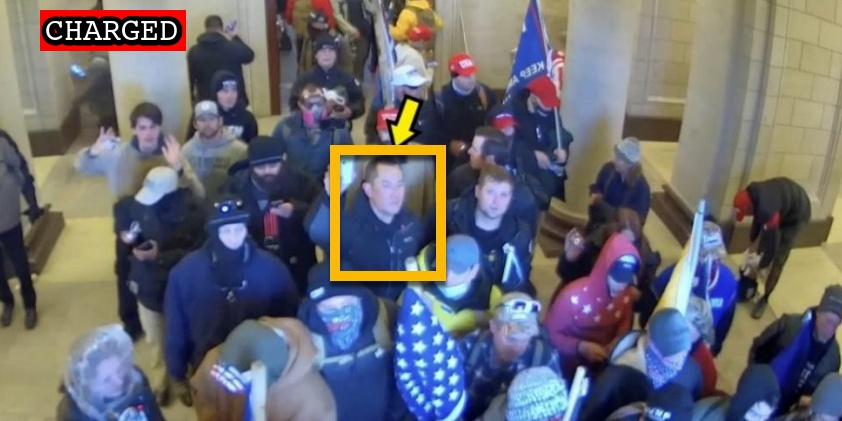
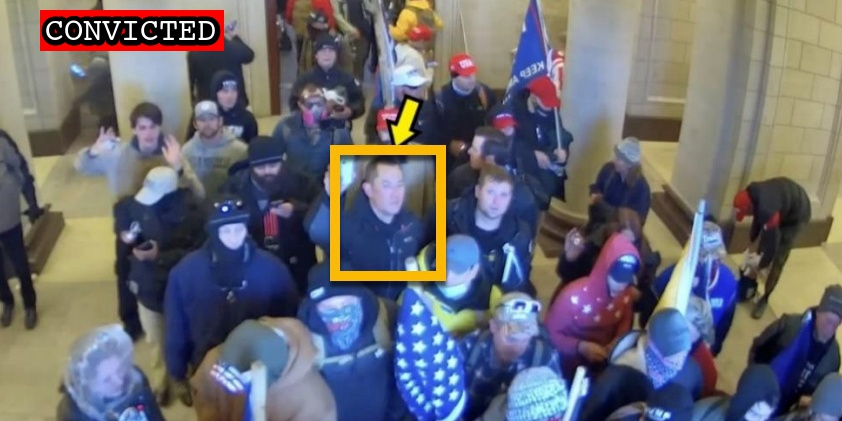
Latest import

Changed region(s): [[0.0618, 0.0, 0.2779, 0.1235]]

diff --git a/docs/_suspects/robert-sanford.md b/docs/_suspects/robert-sanford.md
@@ -37,13 +37,12 @@ published: true
 caseNumber: 1:21-cr-86
 videos:
 charges:
-  - code: 18 USC § 111(a)(1) and (b)
-    title: Assaulting, Resisting, or Impeding Certain Officers Using a Dangerous Weapon
-    url: https://www.law.cornell.edu/uscode/text/18/111
-    felony: true
+- code: 18 USC § 111(a)(1) and (b)
+  title: Assaulting, Resisting, or Impeding Certain Officers Using a Dangerous Weapon
+  url: https://www.law.cornell.edu/uscode/text/18/111
+  felony: true
 sentence:
 ---
-
 - [News Report](https://www.wsj.com/livecoverage/trump-impeachment-house-biden/card/jjabJi3k3h0KAkxYDoWY)
 - [DOJ Press Release](https://www.justice.gov/usao-dc/pr/retired-pennsylvania-fire-fighter-arrested-and-criminally-charged-actions-us-capitol)
 - [Video of Incident](https://twitter.com/DavidBegnaud/status/1349055784089370624?s=20)
@@ -51,3 +50,5 @@ sentence:
 - [Statement of Facts](https://www.justice.gov/opa/page/file/1353926/download)
 - [Indictment](https://www.justice.gov/usao-dc/case-multi-defendant/file/1460086/download)
 - [DOJ Press Release (Plea Agreement)](https://www.justice.gov/usao-dc/pr/pennsylvania-man-pleads-guilty-assaulting-officers-dangerous-weapon-during-jan-6-capitol)
+- [Plea Agreement](https://www.justice.gov/usao-dc/case-multi-defendant/file/1537791/download)
+- [Statement of Offense](https://www.justice.gov/usao-dc/case-multi-defendant/file/1537796/download)

diff --git a/docs/_suspects/paula-conlon.md b/docs/_suspects/paula-conlon.md
@@ -4,23 +4,24 @@ lastName: Conlon
 hashtag:
 aka:
 residence: Maryland
-status: Charged
+status: Convicted
 date: 2022-05-18
 charged: 2022-05-18
 indicted:
-convicted:
+convicted: 2022-09-23
 acquitted:
 sentenced:
 dismissed:
 deceased:
 plea_hearing: 2022-09-23
 trial_date:
+trial_type:
 sentencing: 2023-01-05
 age:
 occupation:
 affiliations:
 jurisdiction: Federal
-image: /images/preview/charged.jpg
+image: /images/preview/convicted.jpg
 suspect: charged.jpg
 booking:
 courtroom:
@@ -36,9 +37,15 @@ published: true
 caseNumber: 1:22-cr-171
 videos:
 charges:
+  - code: 40 USC § 5104(e)(2)(G)
+    title: Parading, demonstrating or picketing in a Capitol building
+    url: https://www.law.cornell.edu/uscode/text/40/5104
+    felony: false
 sentence:
 ---
 
 - [Information](https://www.justice.gov/usao-dc/case-multi-defendant/file/1508911/download)
 - [Complaint](https://www.justice.gov/usao-dc/case-multi-defendant/file/1509901/download)
 - [Statement of Facts](https://www.justice.gov/usao-dc/case-multi-defendant/file/1509906/download)
+- [Plea Agreement](https://www.justice.gov/usao-dc/case-multi-defendant/file/1537836/download)
+- [Statement of Offense](https://www.justice.gov/usao-dc/case-multi-defendant/file/1537841/download)

diff --git a/docs/_suspects/stacy-bond.md b/docs/_suspects/stacy-bond.md
@@ -4,23 +4,24 @@ lastName: Bond
 hashtag:
 aka:
 residence: Maryland
-status: Charged
+status: Convicted
 date: 2022-05-18
 charged: 2022-05-18
 indicted:
-convicted:
+convicted: 2022-09-23
 acquitted:
 sentenced:
 dismissed:
 deceased:
 plea_hearing: 2022-09-23
 trial_date:
+trial_type:
 sentencing: 2023-01-05
 age:
 occupation:
 affiliations:
 jurisdiction: Federal
-image: /images/preview/charged.jpg
+image: /images/preview/convicted.jpg
 suspect: charged.jpg
 booking:
 courtroom:
@@ -36,9 +37,15 @@ published: true
 caseNumber: 1:22-cr-171
 videos:
 charges:
+  - code: 40 USC § 5104(e)(2)(G)
+    title: Parading, demonstrating or picketing in a Capitol building
+    url: https://www.law.cornell.edu/uscode/text/40/5104
+    felony: false
 sentence:
 ---
 
 - [Information](https://www.justice.gov/usao-dc/case-multi-defendant/file/1508906/download)
 - [Complaint](https://www.justice.gov/usao-dc/case-multi-defendant/file/1509891/download)
 - [Statement of Facts](https://www.justice.gov/usao-dc/case-multi-defendant/file/1509896/download)
+- [Plea Agreement](https://www.justice.gov/usao-dc/case-multi-defendant/file/1537826/download)
+- [Statement of Offense](https://www.justice.gov/usao-dc/case-multi-defendant/file/1537831/download)

diff --git a/docs/_suspects/david-johnston.md b/docs/_suspects/david-johnston.md
@@ -34,7 +34,7 @@ description: Click for latest case details. Suspects innocent until proven guilt
 author: seditiontrack
 layout: suspect
 published: true
-caseNumber: 1:22-mj-109
+caseNumber: 1:22-cr-182
 videos:
 charges:
 - code: 40 USC § 5104(e)(2)(G)
@@ -46,6 +46,6 @@ sentence:
 - [News Report](https://www.heraldonline.com/news/local/crime/article261637562.html)
 - [Complaint](https://www.justice.gov/usao-dc/case-multi-defendant/file/1507411/download)
 - [Statement of Facts](https://www.justice.gov/usao-dc/case-multi-defendant/file/1507416/download)
-- [Information](https://extremism.gwu.edu/sites/g/files/zaxdzs2191/f/Chad%20Clifton%20and%20David%20Johnston%20Information.pdf)
-- [Plea Agreement](https://storage.courtlistener.com/recap/gov.uscourts.dcd.243639/gov.uscourts.dcd.243639.25.0.pdf)
-- [Statement of Offense](https://storage.courtlistener.com/recap/gov.uscourts.dcd.243639/gov.uscourts.dcd.243639.26.0_1.pdf)
+- [Information](https://www.justice.gov/usao-dc/case-multi-defendant/file/1537811/download)
+- [Plea Agreement](https://www.justice.gov/usao-dc/case-multi-defendant/file/1537816/download)
+- [Statement of Offense](https://www.justice.gov/usao-dc/case-multi-defendant/file/1537821/download)

diff --git a/docs/_suspects/levi-gable.md b/docs/_suspects/levi-gable.md
@@ -4,17 +4,18 @@ lastName: Gable
 hashtag:
 aka:
 residence: Oklahoma
-status: Charged
+status: Convicted
 date: 2022-05-23
 charged: 2022-05-23
 indicted:
-convicted:
+convicted: 2022-09-23
 acquitted:
 sentenced:
 dismissed:
 deceased:
 plea_hearing: 2022-09-23
 trial_date:
+trial_type:
 sentencing:
 age: 36
 occupation:
@@ -36,6 +37,10 @@ published: true
 caseNumber: 1:22-cr-189
 videos:
 charges:
+  - code: 18 USC § 1752(a)(1)
+    title: Entering a restricted building or grounds
+    url: https://www.law.cornell.edu/uscode/text/18/1752
+    felony: false
 sentence:
 ---
 
@@ -43,3 +48,5 @@ sentence:
 - [Statement of Facts](https://www.justice.gov/usao-dc/case-multi-defendant/file/1509011/download)
 - [Complaint](https://www.justice.gov/usao-dc/case-multi-defendant/file/1509016/download)
 - [Information](https://www.justice.gov/usao-dc/case-multi-defendant/file/1509021/download)
+- [Plea Agreement](https://www.justice.gov/usao-dc/case-multi-defendant/file/1537801/download)
+- [Statement of Offense](https://www.justice.gov/usao-dc/case-multi-defendant/file/1537806/download)

diff --git a/docs/_suspects/melanie-belger.md b/docs/_suspects/melanie-belger.md
@@ -1,0 +1,44 @@
+---
+name: Melanie Belger
+lastName: Belger
+hashtag:
+aka:
+residence:
+status: Charged
+date: 2022-09-16
+charged: 2022-09-16
+indicted:
+convicted:
+acquitted:
+sentenced:
+dismissed:
+deceased:
+plea_hearing:
+trial_date:
+trial_type:
+sentencing:
+age:
+occupation:
+affiliations:
+jurisdiction: Federal
+image: /images/preview/melanie-belger.jpg
+suspect: melanie-belger.jpg
+booking:
+courtroom:
+courthouse:
+raid:
+perpwalk:
+quote:
+title: Melanie Belger charged on September 16th, 2022
+description: Click for latest case details. Suspects innocent until proven guilty.
+author: seditiontrack
+layout: suspect
+published: false
+caseNumber: 1:22-mj-207
+videos:
+charges:
+sentence:
+---
+- [News Report]()
+- [Complaint](https://www.justice.gov/usao-dc/case-multi-defendant/file/1537996/download)
+- [Statement of Facts](https://www.justice.gov/usao-dc/case-multi-defendant/file/1538001/download)

diff --git a/docs/_suspects/michelle-estey.md b/docs/_suspects/michelle-estey.md
@@ -1,0 +1,44 @@
+---
+name: Michelle Estey
+lastName: Estey
+hashtag:
+aka:
+residence:
+status: Charged
+date: 2022-09-16
+charged: 2022-09-16
+indicted:
+convicted:
+acquitted:
+sentenced:
+dismissed:
+deceased:
+plea_hearing:
+trial_date:
+trial_type:
+sentencing:
+age:
+occupation:
+affiliations:
+jurisdiction: Federal
+image: /images/preview/michelle-estey.jpg
+suspect: michelle-estey.jpg
+booking:
+courtroom:
+courthouse:
+raid:
+perpwalk:
+quote:
+title: Michelle Estey charged on September 16th, 2022
+description: Click for latest case details. Suspects innocent until proven guilty.
+author: seditiontrack
+layout: suspect
+published: false
+caseNumber: 1:22-mj-207
+videos:
+charges:
+sentence:
+---
+- [News Report]()
+- [Complaint](https://www.justice.gov/usao-dc/case-multi-defendant/file/1537956/download)
+- [Statement of Facts](https://www.justice.gov/usao-dc/case-multi-defendant/file/1537961/download)
